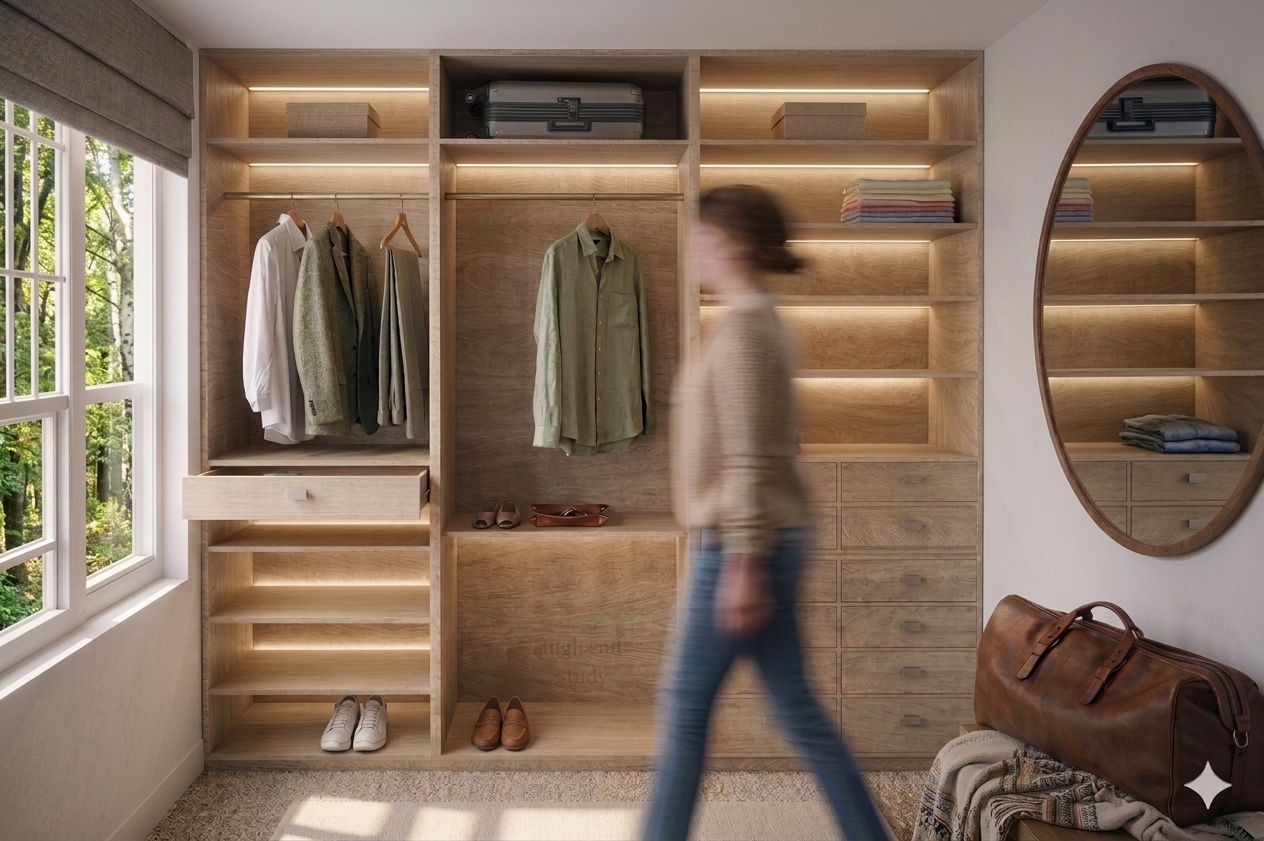
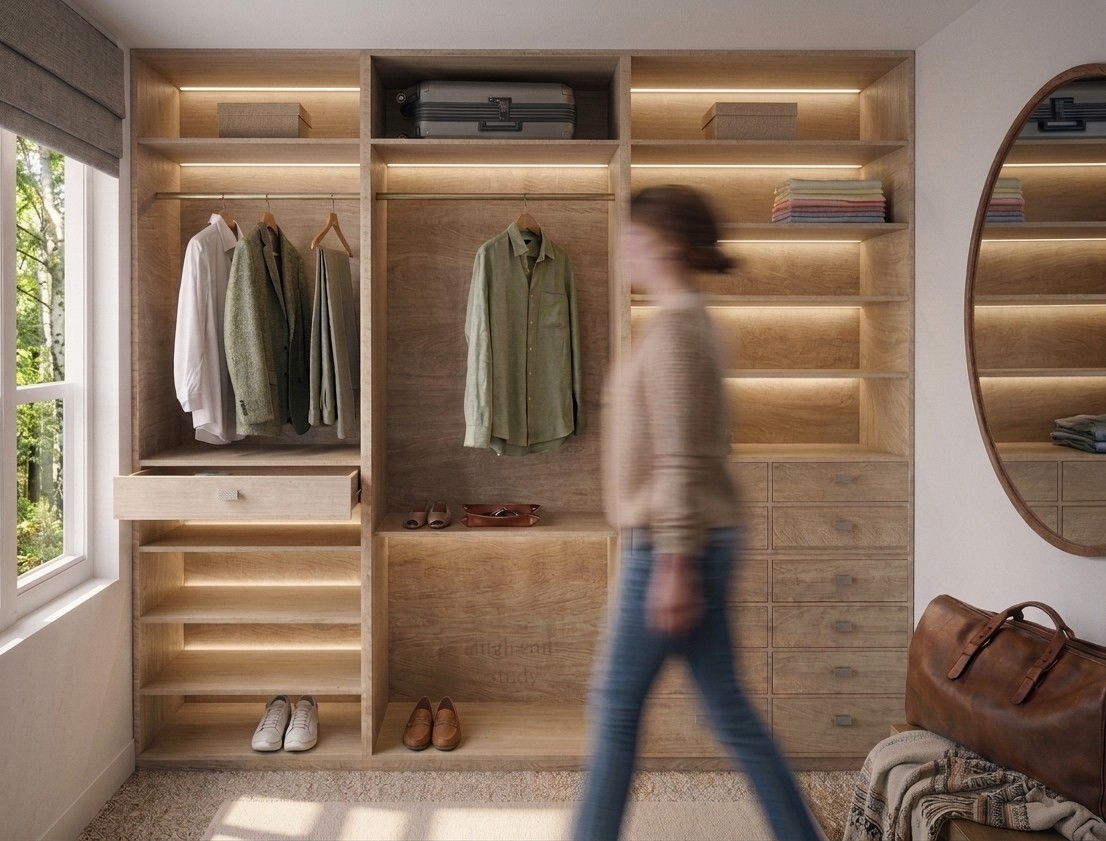
Reemplazar el render de Arenales por la version recortada y corregir "clienta" por "usuaria" en Amigo

diff --git a/proyecto-amigo.html b/proyecto-amigo.html
@@ -50,7 +50,7 @@
         <div class="project-intro-main reveal">
           <span class="eyebrow">Residencial</span>
           <h1>Amigó</h1>
-          <p class="lede project-story">Rediseñamos el dormitorio de una adolescente en plena transición de niña a joven, buscando un espacio más neutro y minimalista que pudiera acompañar los cambios de gustos y objetos personales que van llegando con la edad. Optimizamos al máximo la zona de estudio dentro de un espacio acotado, priorizando la funcionalidad para su rutina escolar sin resignar una estética clásica con un toque sofisticado, siempre en diálogo con los gustos de la clienta.</p>
+          <p class="lede project-story">Rediseñamos el dormitorio de una adolescente en plena transición de niña a joven, buscando un espacio más neutro y minimalista que pudiera acompañar los cambios de gustos y objetos personales que van llegando con la edad. Optimizamos al máximo la zona de estudio dentro de un espacio acotado, priorizando la funcionalidad para su rutina escolar sin resignar una estética clásica con un toque sofisticado, siempre en diálogo con los gustos de la usuaria.</p>
         </div>
         <aside class="reveal">
           <dl class="project-facts">
